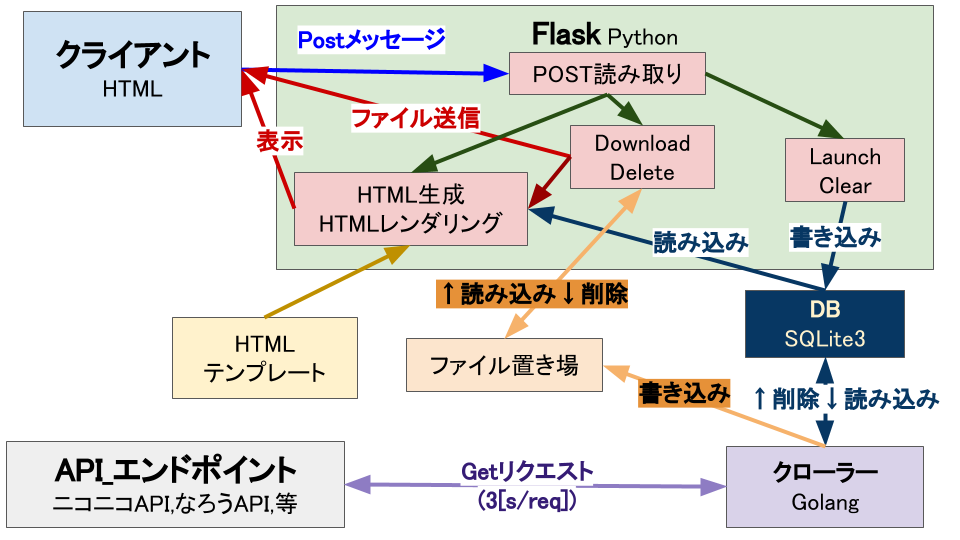
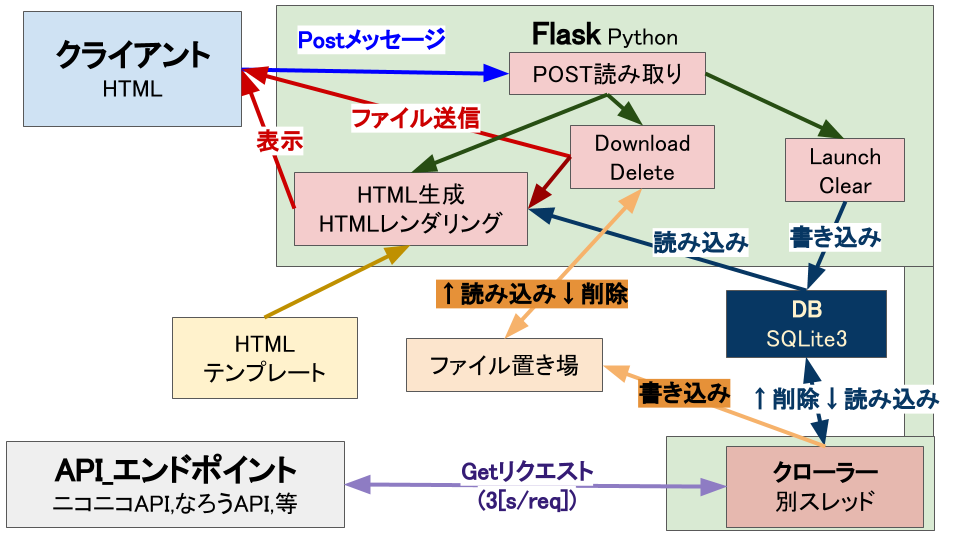
Add files via upload

diff --git a/flask/templates/nicoapi.html b/flask/templates/nicoapi.html
@@ -127,8 +127,6 @@
                     </table>
                 </div>
                 <div class="collapse mt-2 bg-secondary" id="navbarToggleExternalContent_2">
-                    <button name="nicoapigostatus" value="True" class="btn btn-warning mt-1">Get Status</button>
-                    <span class="text-white">Status: <b>{{NICOAPIGO_S}}</b></span><br>
                     <input type="text" name="query" class="form-control mt-1" value="{{QUERY}}"
                         placeholder="query (no input required)">
                     <button name="clear" value="True" class="btn btn-outline-danger mt-1 bg-light">Clear_Orders</button>

diff --git a/flask/static/assets/nicoapi.go b/flask/static/assets/nicoapi.go
@@ -1,0 +1,113 @@
+//Currently not used
+
+package main
+
+import (
+	"database/sql"
+	"io/ioutil"
+	"net/http"
+	"net/url"
+	"os"
+	"strconv"
+	"strings"
+	"time"
+
+	"github.com/mitchellh/go-ps"
+
+	_ "github.com/mattn/go-sqlite3"
+)
+
+func gethttp(urls string, interval time.Duration) (string, string) { //get string by http from url
+	if interval < 3 {
+		return "", ""
+	}
+	time.Sleep(time.Second * interval)
+	if 1 < len(strings.Split(urls, "?")) { //encode query
+		r := strings.NewReplacer("%26", "&", "%3D", "=")
+		urls = strings.Split(urls, "?")[0] + "?" + r.Replace(url.QueryEscape(strings.Split(urls, "?")[1]))
+	}
+	req, _ := http.NewRequest("GET", urls, nil)
+	req.Header.Set("User-Agent", "wrapper_for_NicoNicoAPI")
+	client := new(http.Client)
+	resp, err := client.Do(req)
+
+	fname := resp.Header.Get("Content-Disposition")
+	if 1 < len(strings.Split(fname, "filename=")) { //get downloading filename
+		fname = strings.Split(strings.Split(fname, "filename=")[1], " ")[0]
+	} else {
+		fname = strconv.FormatInt(time.Now().Unix(), 10) //get Unix time
+	}
+
+	if err == nil {
+		defer resp.Body.Close()
+		byteArray, err := ioutil.ReadAll(resp.Body)
+		if err == nil {
+			return string(byteArray), fname
+		}
+	}
+	return "", ""
+}
+
+func checkdup() int { //prevent duplication
+	pidInfo, err := ps.FindProcess(os.Getpid())
+	if err == nil {
+		ls, err := ps.Processes()
+		if err == nil {
+			for i := 0; i < len(ls); i++ {
+				if pidInfo.Executable() == ls[i].Executable() && pidInfo.Pid() != ls[i].Pid() {
+					println("dup:", pidInfo.Executable())
+					return 1
+				}
+			}
+			return 0
+		}
+	}
+	return -1
+}
+
+func main() {
+	for tm := time.Now().Unix(); time.Now().Unix()-tm < 65000; {
+
+		if checkdup() != 0 {
+			return
+		}
+
+		db, err := sql.Open("sqlite3", "flask.sqlite")
+		defer db.Close()
+		if err == nil {
+			urls, sha256s, dates := make([]string, 0), make([]string, 0), make([]time.Time, 0)
+
+			//read_SQL
+			a, err := db.Query("select sha256,url,date from nicoapi")
+			defer a.Close()
+			if err == nil {
+				for a.Next() {
+					urls = append(urls, "")
+					sha256s = append(sha256s, "")
+					dates = append(dates, time.Now())
+					a.Scan(&sha256s[len(sha256s)-1], &urls[len(urls)-1], &dates[len(dates)-1])
+				}
+			}
+
+			//fetch_data
+			for i := 0; i < len(urls); i++ {
+				db.Exec("delete from nicoapi where url=? and sha256=?", urls[i], sha256s[i])
+				text, fname := gethttp(urls[i], 3)
+				os.MkdirAll("nicoapi/"+sha256s[i], 0777)
+				err := os.Chmod("nicoapi/"+sha256s[i], 0777)
+				if err == nil {
+					fname = "nicoapi/" + sha256s[i] + "/" + fname
+					fp, err := os.Create(fname)
+					if err == nil {
+						defer fp.Close()
+						fp.Write(([]byte)(text))
+					}
+					os.Chmod(fname, 0777)
+				}
+			}
+
+		}
+		time.Sleep(time.Second * 5)
+	}
+	println("nicoapi.go->timeout")
+}

diff --git a/flask/nicoapi.py b/flask/nicoapi.py
@@ -7,7 +7,6 @@ import datetime
 import zipfile
 import subprocess
 import shutil
-import psutil
 import time
 import threading
 from urllib import parse
@@ -82,11 +81,6 @@ def delete_files(passwd=""):
     sha256=hashlib.sha256(passwd.encode('utf-8')).hexdigest()
     try:shutil.rmtree(os.path.join(DataDir,sha256))
     except:return
-    
-def check_nicoapigo_status():
-    for proc in psutil.process_iter():
-        if 'nicoapi' in proc.name():return "Running"
-    return "Stopping"
 
 def fields_to_html_text_forms(id,prm="",val="",readonly="False"):
     html="<tr>"
@@ -131,7 +125,7 @@ def fill_default_fields(url=""):
 
 
 def qrawler():
-    for _ in range(30000):#86400[s]/3
+    while True:
         time.sleep(5)
         #sqlite3
         con=sqlite3.connect(os.path.join("./flask.sqlite"),isolation_level = None)
@@ -165,7 +159,6 @@ def show(req):
     urls="https://api.search.nicovideo.jp/api/v2/video/contents/search"
     query=""
     passwd=""
-    nicoapigo_s="non check"
     fields=""
     fields_c=""#fields_command
     if req.method == 'POST':
@@ -210,8 +203,6 @@ def show(req):
             delete_files(passwd)
         if "download" in req.form and secure_filename(req.form["download"])=="True":
             return download_files(passwd)
-        if "nicoapigostatus" in req.form and secure_filename(req.form["nicoapigostatus"])=="True":
-            nicoapigo_s=check_nicoapigo_status()
         
         #select_API_endpoint is a command which cause to reset forms as like no POST
         if "select_API_endpoint" in req.form:
@@ -224,4 +215,4 @@ def show(req):
     orders=Display_Current_SQL(passwd)
     _,size_files=about_files(passwd)
     return render_template_2("nicoapi.html",ORDERS=orders,URL=urls,QUERY=query,PASS=passwd,\
-    SIZE_FILES=size_files,NICOAPIGO_S=nicoapigo_s,FIELDS=fields,FIELDS_C=fields_c)
+    SIZE_FILES=size_files,FIELDS=fields,FIELDS_C=fields_c)
